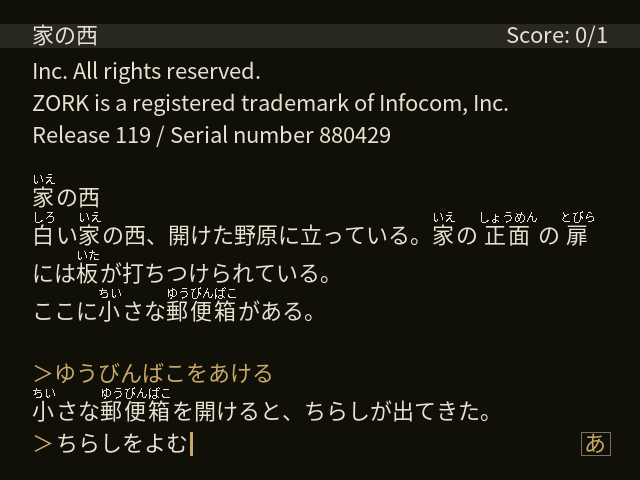
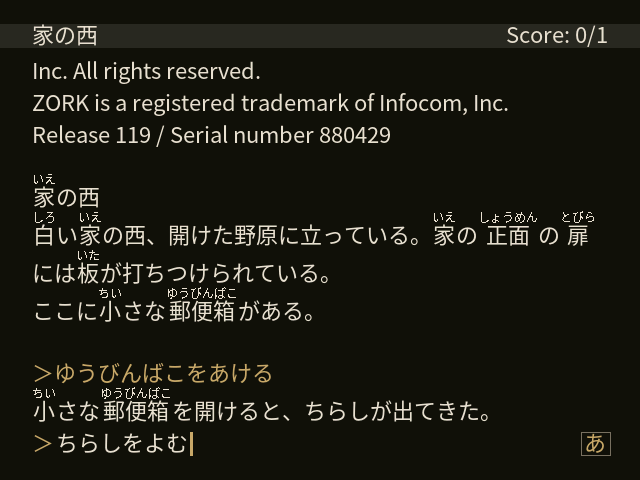
build(portmaster): glibc 2.31 の入れ物で焼く —— 開発機で焼くと 2.34 を要求していた
焼いたバイナリは焼いた機械の glibc を要求する。開発機と実機（dArkOSen）はどちらも
Debian trixie（2.41）なのでここまで見えなかったが、ArkOS / AmberELEC は
Ubuntu 20.04 = 2.31 なので、そのままでは起動すらしない。

- portmaster/Containerfile = Ubuntu 20.04。★「2.31 という数字を合わせる」のではなく
  配る先そのもので焼くことになる（Debian bullseye も 2.31 だが bullseye-security の
  索引と pool が食い違って apt が 404 を返した）
- build-port.sh が既定で入れ物に入る（ZM_HOST_BUILD=1 で手元の glibc）
- --check は 2.31 を超えたら赤で止まる。★人が目で読む一覧のままだと、上がったことに
  気づかないまま配れてしまう（2.34 の版を置いて実際に赤くなることを確かめた）

結果: 要求は GLIBC_2.17 だけ（依存は libSDL2 / libfreetype / libc のみ）。
★入れ物で焼いても画面は 1 画素も変わらない（307,200 点を突き合わせた）。

★screenshot.png も撮り直した —— 語の折り返しの修正より前のものが残っていて、
本文が 110 行ぶん古かった。「画面を変える直しをしたらスクショも撮り直す」の実例。

Claude-Session: https://claude.ai/code/session_01PWpbzfqvUGQGKHUCqKT6Hu

diff --git a/TODO.md b/TODO.md
@@ -1,48 +1,26 @@
 # TODO
 
-> **現在地（2026-09-04）**: 実機（R36H）で動き、PS1 版とも画素一致。
-> ★次は **PortMaster への公開申請**で、★**Zenmai が 1 本目**（[Higgins](https://github.com/msonrm/higgins) より先）——
-> 依存が SDL2 + FreeType だけなので、**glibc の問題だけを解けばよい**。
+> **現在地（2026-09-05）**: 実機（R36H）で動き、PS1 版とも画素一致。
+> ★**Start メニューの「やめる」**と★**glibc 2.31 での焼き直し**は済んだ。
+> ★残るは **PortMaster への公開申請**で、★**Zenmai が 1 本目**
+> （[Higgins](https://github.com/msonrm/higgins) より先 —— 依存が SDL2 + FreeType だけなので）。
 > 申請の手順を 1 本目で覚えてから Higgins に進む（msonrm さんの判断）。
+> ★★**残っている関門は 1 つだけ = テストの記録**（実機が要るので人の仕事）。
 
-## ★★1. Start メニューに「やめる / QUIT」を足す（実機の指摘・2026-09-04）
-
-コマンド（「やめる」/ `quit`）でやめられるのは確かだが、
-★**気軽にやめられないゲームは良くない**（msonrm さん）。★セーブはコマンドのままでよい。
-
-- ★★**コマンドとして投げる**（`feed_cmd`）—— `GState->quit` を直接立てず、**原作の QUIT を
-  走らせて「本当にやめますか」を出す**。★**原作がそのまま動く**が Zenmai の主張なので省かない
-- ★投げる語は**語彙の原簿から引く**（日本語 = 「やめる」/ 英語 = `quit`）——
-  `native/gen_ui.py` がシステムコマンド一覧（`P_CMDS`）で既にそうしている。
-  ★書き写すと、語を変えたときにここだけ古くなる
-- ★**送信処理が対話ループ 2 つ（`interactive_ja` / `interactive_en`）にある**ので、
-  先に関数へ切り出し、**台本で挙動不変を確かめてから**メニューに繋ぐ
-  （Higgins で `apply_frame` を切り出したのと同じ手順）
-- ★メニューの項目数（4）と読み物の頁数（3）が**別になる** —— いまは `UI_PAGE_N` が
-  両方を兼ねている。`opt_sel` の回り方と、決定時の分岐を分ける
-- ★回帰は既にある: `native/quit_ja.script` / `quit_en.script` / `native/test-quit.sh`
-
-## ★★2. glibc 2.31 で焼き直す
-
-★開発機は Debian trixie（**glibc 2.41**）。**ArkOS / AmberELEC は 2.31** なので、
-そのままでは動かない（`portmaster/README.md` にも書いてある）。
-
-- **podman** で `docker.io/arm64v8/debian:bullseye`（glibc 2.31）を立てて焼く
-  （開発機は aarch64 なのでクロスは要らない）
-- 要る開発パッケージ: `libsdl2-dev` / `libfreetype-dev`
-- ★焼いたら **`ldd` で 2.31 を要求していること**と、実機で動くことを確かめる
-
-## ★★3. PortMaster への申請
+## ★★1. PortMaster への申請
 
 要件は [packaging.html](https://portmaster.games/packaging.html)（2026-09-04 に実測）。
 ★**`port.json`（version 2）/ `.sh` / `licenses/` / `gameinfo.xml` は既に満たしている**
 （`.sh` は `control.txt` / `get_controls` / `pm_platform_helper` / `pm_finish` の作法どおり）。
 
 - ★スクリーンショットは **実際のプレイ画面**（タイトル画面だけは不可）・4:3・640×480 以上
-- ★README は**原作者への謝辞**と操作表が要る —— ★`portmaster/README.md` は既にある
-  （MojoZork の Ryan C. Gordon、Infocom、ZIL を MIT で公開した Microsoft / Activision）
+  → ある（`portmaster/screenshot.png`）。★**画面を変える直しをしたら撮り直す** ——
+  2026-09-05 に撮り直した（語の折り返しの修正より前のものが残っていて 110 行ぶん古かった）
+- ★README は**原作者への謝辞**と操作表が要る → ある（`portmaster/README.md`）
 - ★★**テストの記録が必須** —— AmberELEC / ArkOS / ROCKNIX / muOS で試した記録を
-  Discord の #testing-n-dev に出す。**記録の無い PR は却下される**。ここは実機が要る
+  Discord の #testing-n-dev に出す。**記録の無い PR は却下される**。★ここは実機が要る。
+  ★**バイナリ側の心配は無くなった**（下の 2 で glibc 2.17 まで下がった）ので、
+  残っているのは**動かして記録を取ること**だけ
 - 手順: [PortMaster-New](https://github.com/PortsMaster/PortMaster-New) を fork →
   Actions を切る → `tools/prepare_repo.sh` → `ports/` に置く →
   `python3 tools/build_release.py --do-check` → PR
@@ -51,3 +29,26 @@
 [MIT で公開されている](https://github.com/historicalsource/zork1)（2025-11-20・
 Microsoft Open Source Programs Office / Team Xbox / Activision）。story ファイルは
 そこから自前で焼いているので、**同梱して配れる**。
+
+## 済んだこと
+
+### ★Start メニューに「やめる」（2026-09-05・段 1）
+
+★気軽にやめられないゲームは良くない（実機の指摘）。
+★**コマンドとして投げる**ので「本当にやめますか」は原作がそのまま出す。
+詳細は `docs/ps1-implementation-notes.md` の 7 節。
+
+- 項目の数（`UI_MENU_N` = 4）と読み物の頁の数（`UI_PAGE_N` = 3）を分けた
+- 確定処理を対話ループ 2 つから `submit_ja` / `submit_en` へ切り出してから繋いだ
+- 投げる語は語彙の原簿から（`assets/zork1-cmd.json` → `gen_ui.py` → `UI_QUIT`）
+- ★**決めた面ボタンは押されたままメニューを抜ける**（`carry_over_pad`）。
+  検査 = `test-options.sh` の 2 件（日英）／`test-quit.sh` の 3 件
+
+### ★glibc 2.31 で焼き直す（2026-09-05・段 2）
+
+- `portmaster/Containerfile` = **Ubuntu 20.04**（ArkOS / AmberELEC の土台そのもの）。
+  ★Debian bullseye も 2.31 だが `bullseye-security` の索引と pool が食い違って apt が 404
+- `sh portmaster/build-port.sh` が**既定で入れ物に入る**（`ZM_HOST_BUILD=1` で手元の glibc）
+- ★結果: 要求は **GLIBC_2.17 だけ**（開発機 trixie で焼くと 2.34 を要求していた）。
+  依存は `libSDL2-2.0.so.0` / `libfreetype.so.6` / `libc.so.6` のみ
+- ★**入れ物で焼いても画面は 1 画素も変わらない**（307,200 点を突き合わせて確認）

diff --git a/portmaster/README.md b/portmaster/README.md
@@ -72,6 +72,8 @@ build assumes the handheld.
 | **START on an empty line** | open the options menu |
 
 In the options menu: ↑↓ to choose, **any face button** to confirm, START to close.
+It has four entries — three pages to read (how to type, system commands, licence)
+and **Quit**.
 
 ### Leaving
 
@@ -79,6 +81,10 @@ In the options menu: ↑↓ to choose, **any face button** to confirm, START to 
 launcher. (On the PlayStation build the same command drops back to the language
 menu — there is nowhere else to go on a console.) To switch language, start the
 port again.
+
+**Quit** in the options menu is a shortcut for the same thing, not a separate exit:
+it types the word for you, so the game still asks *do you really want to quit?* and
+still wants an answer. The original is what runs; the menu only saves you the typing.
 
 ### Saving
 
@@ -110,9 +116,12 @@ Everything above those — layout, wrapping, ruby, history, the input state mach
 translation — is the same code. There is a test that builds this port *with* the baked
 glyphs and checks it renders pixel-for-pixel identically to the PlayStation build.
 
-**On glibc:** the binary asks for whatever glibc it was built against. Built on
-Debian trixie it runs on dArkOS/dArkOSen and other trixie-based firmware; for
-ArkOS or AmberELEC (glibc 2.31) it has to be rebuilt in an older container.
+**On glibc:** the binary asks for whatever glibc it was built against, and a newer
+one is not there on older firmware. So `build-port.sh` builds inside a container
+([`portmaster/Containerfile`](https://github.com/msonrm/zenmai/blob/main/portmaster/Containerfile),
+Ubuntu 20.04 = glibc 2.31 — what ArkOS and AmberELEC are built on), which also runs
+on newer firmware such as dArkOS/dArkOSen. It needs `podman`; pass `ZM_HOST_BUILD=1`
+to use your own toolchain instead. `--check` fails if anything above 2.31 crept in.
 
 ## Licence
 
